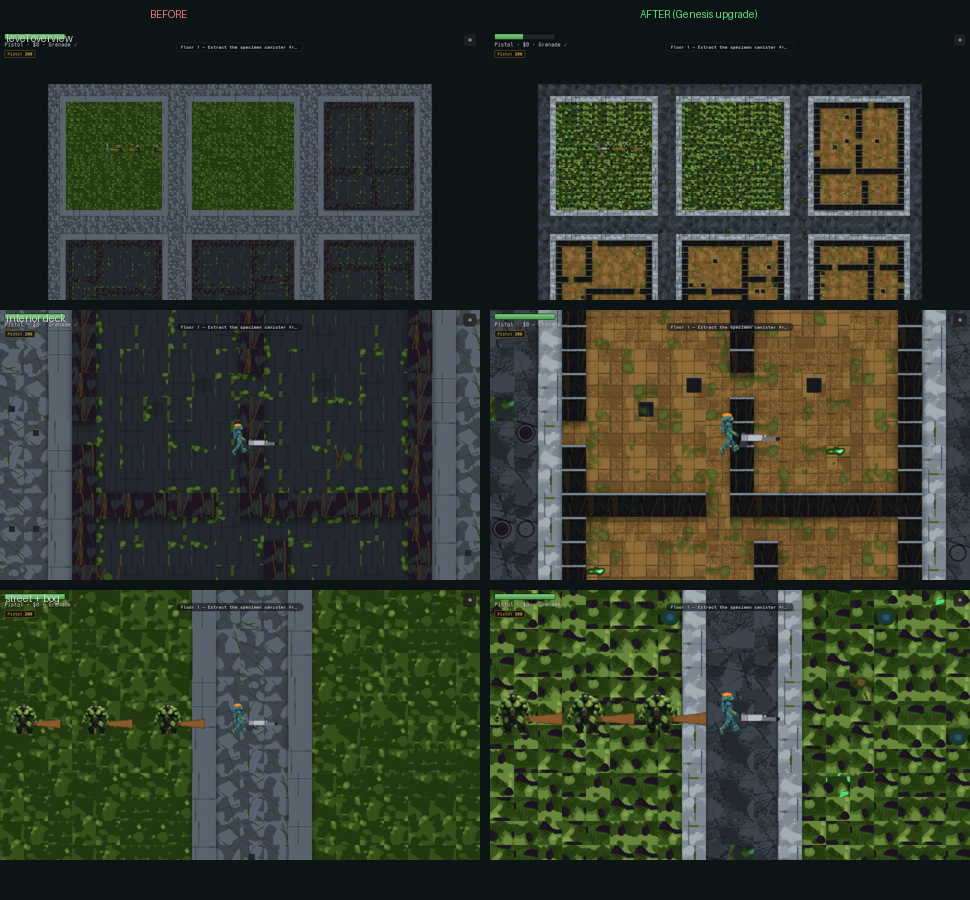
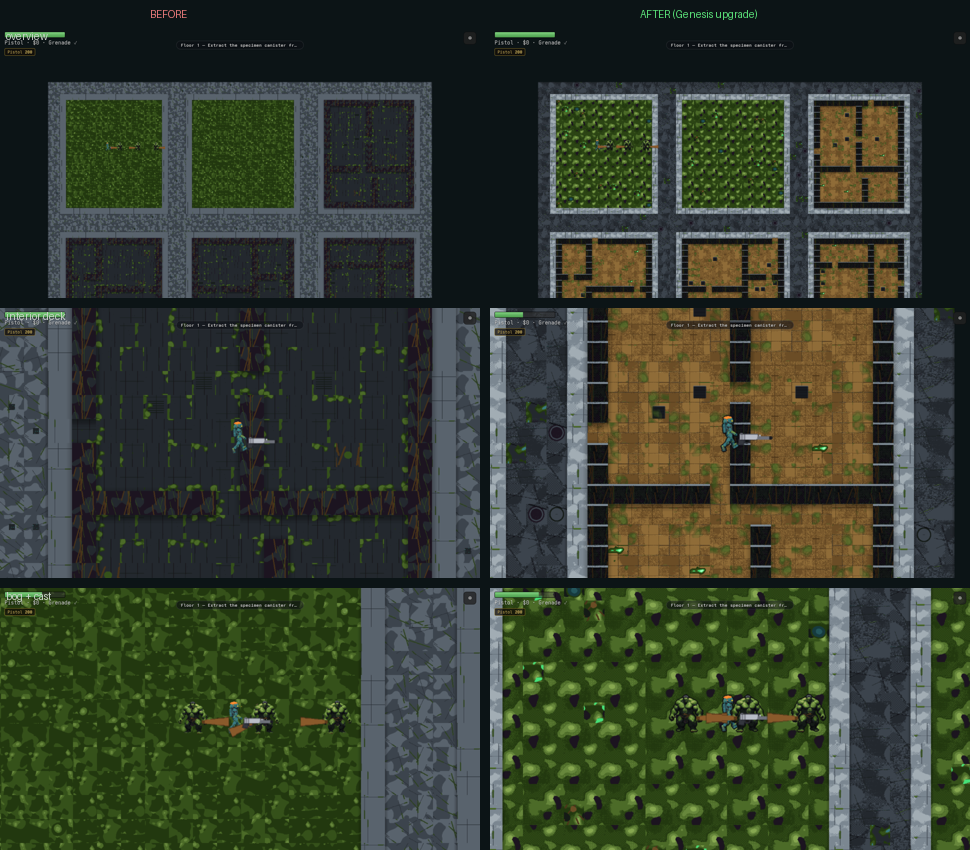
feat(art): grass hollows small+scattered; outline props/items; refresh montage
bog_macro peat hollows now small speckled spots (were big repeating ovals).
Props + un-outlined items get the 2px dark rim too, so pickups/furniture pop
off the deck. Whole-game overview reads cleanly: bog gardens vs tan interiors.

Claude-Session: https://claude.ai/code/session_01T8aeGuo9zCsANnHZoCcMgv

diff --git a/scripts/assets/char_outline.py b/scripts/assets/char_outline.py
@@ -62,24 +62,29 @@ def main():
     ap = argparse.ArgumentParser()
     ap.add_argument("--theme", default="../../public/themes/swampspace-hires")
     ap.add_argument("--width", type=int, default=2)
+    ap.add_argument("--dirs", default="chars", help="comma-separated: chars,props,items")
+    ap.add_argument("--skip-outlined", type=float, default=None,
+                    help="skip files whose rim already exceeds this (re-run safety)")
     ap.add_argument("--dry", action="store_true")
     args = ap.parse_args()
 
-    files = sorted(glob.glob(os.path.join(args.theme, "chars", "*.png")))
-    n = 0
-    for f in files:
-        im = Image.open(f)
-        before = edge_darkness(im, args.width)
-        out, rim = outline_sprite(im, args.width)
-        after = edge_darkness(out, args.width)
-        tag = "outlined" if not args.dry else "would outline"
-        if os.path.basename(f).endswith(("-idle.png", "-step.png")) or "-walk-" in f:
+    tag = "would outline" if args.dry else "outlined"
+    for sub in args.dirs.split(","):
+        files = sorted(glob.glob(os.path.join(args.theme, sub, "*.png")))
+        n = 0
+        for f in files:
+            base = os.path.basename(f)
+            if sub == "chars" and not (base.endswith(("-idle.png", "-step.png")) or "-walk-" in f):
+                continue
+            im = Image.open(f)
+            before = edge_darkness(im, args.width)
+            if args.skip_outlined is not None and before >= args.skip_outlined:
+                continue
+            out, rim = outline_sprite(im, args.width)
             if not args.dry:
                 out.save(f)
             n += 1
-            if os.path.basename(f).startswith(("vine-ranger-s", "bog-mutant-s", "spore-drone-s")):
-                print(f"  {os.path.basename(f):28s} edge_dark {before:.2f}->{after:.2f} rim+{rim}px")
-    print(f"{tag} {n} character frames (width {args.width})")
+        print(f"{tag} {n} {sub} sprites (width {args.width})")
 
 
 if __name__ == "__main__":

diff --git a/scripts/assets/tiles_genesis.py b/scripts/assets/tiles_genesis.py
@@ -237,15 +237,16 @@ def bog_macro(T, m):
     visible repeat period doubles (manifest macroTiles.grass=2)."""
     M = 2 * T
     rng = np.random.default_rng(16500 + m)
-    img = field(M, rng, hexc("#22380f"), hexc("#35511a"), sigma=M / 4, ramp=0.7)
-    clump = tnoise(M, rng, M / 5, octaves=2)
-    img[clump > 0.60] = hexc("#4c6b28")
-    img[clump > 0.76] = hexc("#67873c")
+    img = field(M, rng, hexc("#22380f"), hexc("#35511a"), sigma=M / 5, ramp=0.6)
+    clump = tnoise(M, rng, M / 6, octaves=2)
+    img[clump > 0.58] = hexc("#4c6b28")
+    img[clump > 0.74] = hexc("#67873c")
     img[clump > 0.90] = hexc("#86a750")
-    dark = tnoise(M, rng, M / 5)
-    img[dark > 0.80] = hexc("#141a16")  # wet peat hollows, big and irregular
-    # a couple of biolume spore dots per macro
-    for _ in range(3):
+    # wet peat hollows: SMALL and scattered (higher freq, rarer threshold) so
+    # they read as speckled dark spots, not big repeating diagonal ovals.
+    dark = tnoise(M, rng, M / 9)
+    img[dark > 0.86] = hexc("#141a16")
+    for _ in range(4):
         img[rng.integers(0, M), rng.integers(0, M)] = hexc("#46e078")
     return img
 
